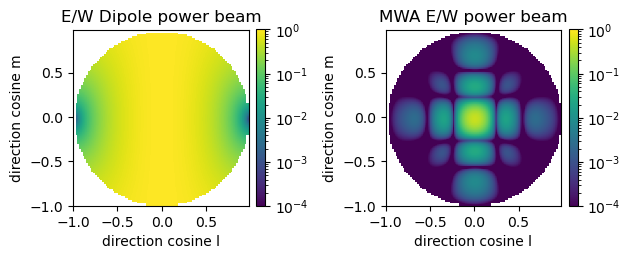
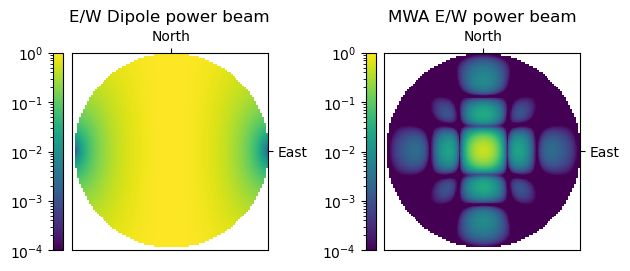
Properly set origin for imshow calls to prevent vertical flipping
Also better labelling for beam plots with East and North

diff --git a/docs/analytic_beam_tutorial.rst b/docs/analytic_beam_tutorial.rst
@@ -69,21 +69,28 @@ are included, the array returned from the ``power_eval`` method will be complex.
   ...   beam_vals[0,0,0],
   ...   norm=LogNorm(vmin = 1e-8, vmax =1),
   ...   extent=[np.min(l_arr), np.max(l_arr), np.min(m_arr), np.max(m_arr)],
+  ...   origin="lower",
   ... )
   >>> _ = ax[0].set_title(f"Airy beam {freqs[0]*1e-6} MHz")
-  >>> _ = ax[0].set_xlabel("direction cosine l")
-  >>> _ = ax[0].set_ylabel("direction cosine m")
-  >>> _ = fig.colorbar(bp_low, ax=ax[0], fraction=0.046, pad=0.04)
+  >>> _ = fig.colorbar(bp_low, ax=ax[0], fraction=0.046, pad=0.04, location="left")
 
   >>> bp_high = ax[1].imshow(
   ...   beam_vals[0,0,-1],
   ...   norm=LogNorm(vmin = 1e-8, vmax =1),
   ...   extent=[np.min(l_arr), np.max(l_arr), np.min(m_arr), np.max(m_arr)],
+  ...   origin="lower",
   ... )
   >>> _ = ax[1].set_title(f"Airy beam {freqs[-1]*1e-6} MHz")
-  >>> _ = ax[1].set_xlabel("direction cosine l")
-  >>> _ = ax[1].set_ylabel("direction cosine m")
-  >>> _ = fig.colorbar(bp_high, ax=ax[1], fraction=0.046, pad=0.04)
+  >>> _ = fig.colorbar(bp_high, ax=ax[1], fraction=0.046, pad=0.04, location="left")
+
+  >>> for ind in range(2):
+  ...   _ = ax[ind].set_xticks([0], labels=["North"])
+  ...   _ = ax[ind].set_yticks([0], labels=["East"])
+  ...   _ = ax[ind].yaxis.set_label_position("right")
+  ...   _ = ax[ind].yaxis.tick_right()
+  ...   _ = ax[ind].xaxis.set_label_position("top")
+  ...   _ = ax[ind].xaxis.tick_top()
+
   >>> fig.tight_layout()
   >>> plt.show()  # doctest: +SKIP
   >>> plt.savefig("Images/airy_beam.png", bbox_inches='tight')
@@ -144,29 +151,46 @@ part, but in general E-Field beams can be complex, so a complex array is returne
 
   >>> fig, ax = plt.subplots(2, 2)
 
-  >>> be00 = ax[0,0].imshow(beam_vals[0,0,0].real, extent=[np.min(l_arr), np.max(l_arr), np.min(m_arr), np.max(m_arr)])
+  >>> be00 = ax[0,0].imshow(
+  ...   beam_vals[0,0,0].real,
+  ...   extent=[np.min(l_arr), np.max(l_arr), np.min(m_arr), np.max(m_arr)],
+  ...   origin="lower",
+  ... )
   >>> _ = ax[0,0].set_title("E/W dipole azimuth response")
-  >>> _ = ax[0,0].set_xlabel("direction cosine l")
-  >>> _ = ax[0,0].set_ylabel("direction cosine m")
-  >>> _ = fig.colorbar(be00, ax=ax[0,0])
+  >>> _ = fig.colorbar(be00, ax=ax[0,0], location="left")
 
-  >>> be10 = ax[1,0].imshow(beam_vals[1,0,0].real, extent=[np.min(l_arr), np.max(l_arr), np.min(m_arr), np.max(m_arr)])
+  >>> be10 = ax[1,0].imshow(
+  ...   beam_vals[1,0,0].real,
+  ...   extent=[np.min(l_arr), np.max(l_arr), np.min(m_arr), np.max(m_arr)],
+  ...   origin="lower",
+  ... )
   >>> _ = ax[1,0].set_title("E/W dipole zenith angle response")
-  >>> _ = ax[1,0].set_xlabel("direction cosine l")
-  >>> _ = ax[1,0].set_ylabel("direction cosine m")
-  >>> _ = fig.colorbar(be00, ax=ax[1,0])
+  >>> _ = fig.colorbar(be10, ax=ax[1,0], location="left")
 
-  >>> be01 = ax[0,1].imshow(beam_vals[0,1,0].real, extent=[np.min(l_arr), np.max(l_arr), np.min(m_arr), np.max(m_arr)])
+  >>> be01 = ax[0,1].imshow(
+  ...   beam_vals[0,1,0].real,
+  ...   extent=[np.min(l_arr), np.max(l_arr), np.min(m_arr), np.max(m_arr)],
+  ...   origin="lower",
+  ... )
   >>> _ = ax[0,1].set_title("N/S dipole azimuth response")
-  >>> _ = ax[0,1].set_xlabel("direction cosine l")
-  >>> _ = ax[0,1].set_ylabel("direction cosine m")
-  >>> _ = fig.colorbar(be00, ax=ax[0,1])
+  >>> _ = fig.colorbar(be01, ax=ax[0,1], location="left")
 
-  >>> be11 = ax[1,1].imshow(beam_vals[1,1,0].real, extent=[np.min(l_arr), np.max(l_arr), np.min(m_arr), np.max(m_arr)])
+  >>> be11 = ax[1,1].imshow(
+  ...   beam_vals[1,1,0].real,
+  ...   extent=[np.min(l_arr), np.max(l_arr), np.min(m_arr), np.max(m_arr)],
+  ...   origin="lower",
+  ... )
   >>> _ = ax[1,1].set_title("N/S dipole zenith angle response")
-  >>> _ = ax[1,1].set_xlabel("direction cosine l")
-  >>> _ = ax[1,1].set_ylabel("direction cosine m")
-  >>> _ = fig.colorbar(be00, ax=ax[1,1])
+  >>> _ = fig.colorbar(be11, ax=ax[1,1], location="left")
+
+  >>> for row_ind in range(2):
+  ...   for col_ind in range(2):
+  ...      _ = ax[row_ind,col_ind].set_xticks([0], labels=["North"])
+  ...      _ = ax[row_ind,col_ind].set_yticks([0], labels=["East"])
+  ...      _ = ax[row_ind,col_ind].yaxis.set_label_position("right")
+  ...      _ = ax[row_ind,col_ind].yaxis.tick_right()
+  ...      _ = ax[row_ind,col_ind].xaxis.set_label_position("top")
+  ...      _ = ax[row_ind,col_ind].xaxis.tick_top()
 
   >>> fig.tight_layout()
   >>> plt.show()  # doctest: +SKIP

diff --git a/docs/beam_interface_tutorial.rst b/docs/beam_interface_tutorial.rst
@@ -79,21 +79,28 @@ that is attached to it is an analytic beam or a UVBeam.
   ...   dipole_beam_vals[0].real,
   ...   norm=LogNorm(vmin = 1e-4, vmax =1),
   ...   extent=[np.min(l_arr), np.max(l_arr), np.min(m_arr), np.max(m_arr)],
+  ...   origin="lower",
   ... )
   >>> _ = ax[0].set_title(f"E/W Dipole power beam")
-  >>> _ = ax[0].set_xlabel("direction cosine l")
-  >>> _ = ax[0].set_ylabel("direction cosine m")
-  >>> _ = fig.colorbar(bp_dip, ax=ax[0], fraction=0.046, pad=0.04)
+  >>> _ = fig.colorbar(bp_dip, ax=ax[0], fraction=0.046, pad=0.04, location="left")
 
   >>> bp_mwa = ax[1].imshow(
   ...   mwa_beam_vals[0].real,
   ...   norm=LogNorm(vmin = 1e-4, vmax =1),
   ...   extent=[np.min(l_arr), np.max(l_arr), np.min(m_arr), np.max(m_arr)],
+  ...   origin="lower",
   ... )
   >>> _ = ax[1].set_title(f"MWA E/W power beam")
-  >>> _ = ax[1].set_xlabel("direction cosine l")
-  >>> _ = ax[1].set_ylabel("direction cosine m")
-  >>> _ = fig.colorbar(bp_mwa, ax=ax[1], fraction=0.046, pad=0.04)
+  >>> _ = fig.colorbar(bp_mwa, ax=ax[1], fraction=0.046, pad=0.04, location="left")
+
+  >>> for ind in range(2):
+  ...   _ = ax[ind].set_xticks([0], labels=["North"])
+  ...   _ = ax[ind].set_yticks([0], labels=["East"])
+  ...   _ = ax[ind].yaxis.set_label_position("right")
+  ...   _ = ax[ind].yaxis.tick_right()
+  ...   _ = ax[ind].xaxis.set_label_position("top")
+  ...   _ = ax[ind].xaxis.tick_top()
+
   >>> fig.tight_layout()
   >>> plt.show()  # doctest: +SKIP
   >>> plt.savefig("Images/dipole_mwa_power.png", bbox_inches='tight')

diff --git a/docs/uvdata_tutorial.rst b/docs/uvdata_tutorial.rst
@@ -919,7 +919,7 @@ Note: there is now support for reading in only part of a uvfits, uvh5 or miriad 
 
   >>> # Amplitude waterfall for all spectral channels and 0th polarization
   >>> fig, ax = plt.subplots(1, 1)
-  >>> _ = ax.imshow(np.abs(waterfall_data), interpolation='none')
+  >>> _ = ax.imshow(np.abs(waterfall_data), interpolation='none', origin="lower")
   >>> _ = ax.set_yticks([0, waterfall_times.size - 1])
   >>> _ = ax.set_yticklabels([waterfall_times[0], waterfall_times[1]])
   >>> freq_tick_inds = np.concatenate((np.arange(0, uvd.Nfreqs, 16), [uvd.Nfreqs-1]))
